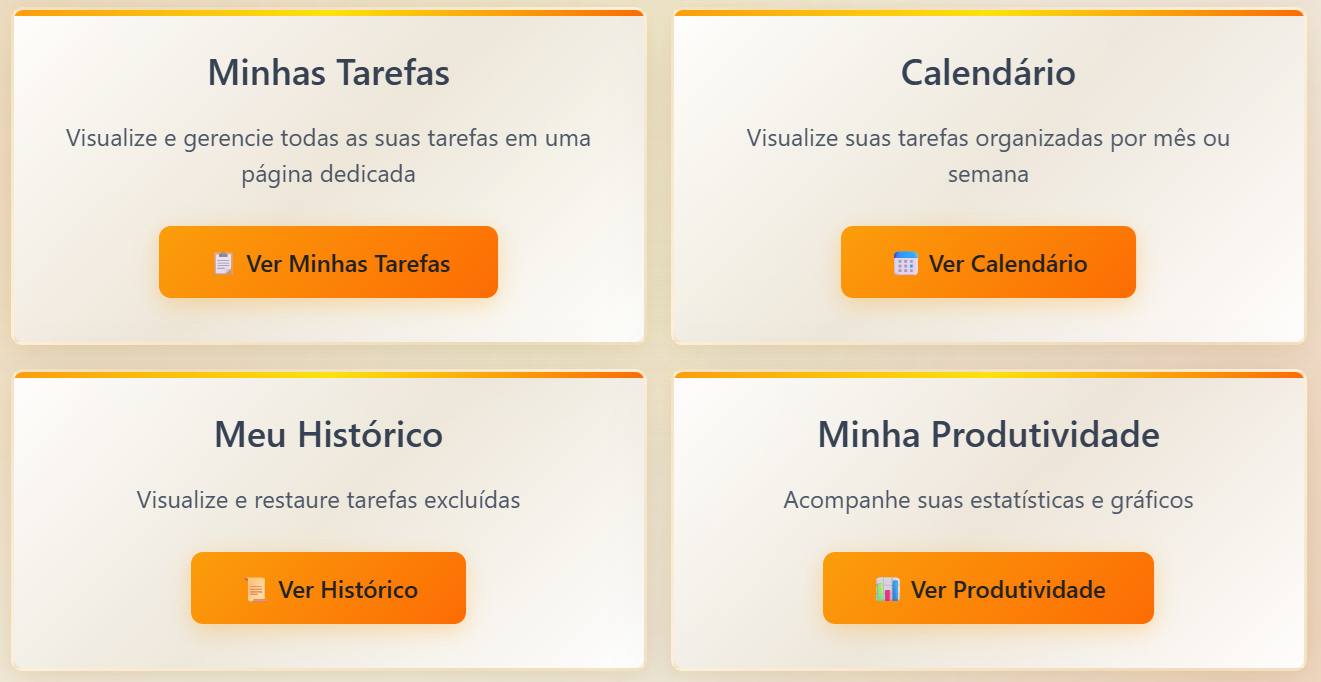
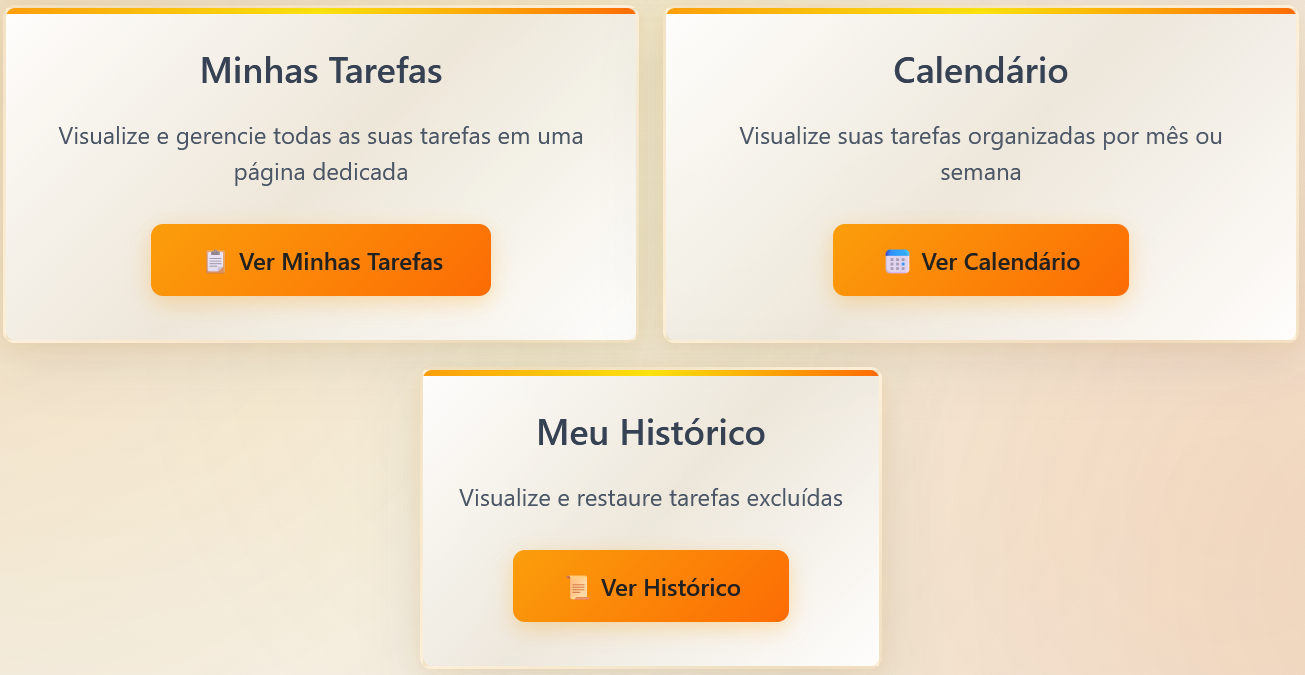
Commit final de quinta

diff --git a/README.md b/README.md
@@ -10,7 +10,24 @@
 
 ## 📋 Sobre o RezenDo
 
-O **RezenDo** é uma aplicação web desenvolvida para ajudar você a organizar e gerenciar suas tarefas de forma eficiente e visualmente atraente. Com uma interface inspirada em post-its coloridos, o aplicativo oferece uma experiência única e agradável para criar, editar e acompanhar suas tarefas. O sistema inclui um calendário completo com visualização mensal e semanal, destaque de feriados, e sistema de notificações automáticas para nunca perder um prazo importante.
+O **RezenDo** é uma aplicação web **totalmente responsiva** desenvolvida para ajudar você a organizar e gerenciar suas tarefas de forma eficiente e visualmente atraente. Com uma interface inspirada em post-its coloridos, o aplicativo oferece uma experiência única e agradável para criar, editar e acompanhar suas tarefas em qualquer dispositivo - seja no desktop, tablet ou smartphone. O sistema inclui um calendário completo com visualização mensal e semanal, destaque de feriados, e sistema de notificações automáticas para nunca perder um prazo importante.
+
+### ⏱ Tempo de Desenvolvimento
+
+O projeto foi desenvolvido em **35 horas e 5 minutos** de trabalho dedicado, utilizando as melhores práticas do ecossistema Laravel e tecnologias modernas de frontend.
+
+## 🎥 Demonstração em Vídeo
+
+<p align="center">
+  <a href="https://youtu.be/5MNWUVqOR-k" target="_blank">
+    <img src="https://img.youtube.com/vi/5MNWUVqOR-k/maxresdefault.jpg" alt="Demonstração do RezenDo" width="600">
+  </a>
+</p>
+
+<p align="center">
+  <strong>Clique na imagem acima para assistir ao vídeo de demonstração do RezenDo</strong><br>
+  <a href="https://youtu.be/5MNWUVqOR-k" target="_blank">🔗 Ver no YouTube</a>
+</p>
 
 ## 🚀 Tecnologias Utilizadas
 
@@ -147,10 +164,13 @@ Se preferir usar Docker:
   - Exclusão em lote de tarefas concluídas
   - Mensagens de erro claras: "Somente o dono da tarefa pode excluí-la" quando não autorizado
 
-- ✅ **Interface Moderna**
+- ✅ **Interface Moderna e Totalmente Responsiva**
   - Design inspirado em post-its com rotação aleatória
   - Cores diferentes para cada nível de prioridade
-  - Layout responsivo para mobile e desktop
+  - **Layout 100% responsivo** - Funciona perfeitamente em desktop, tablet e smartphone
+  - Adaptação automática de elementos visuais para diferentes tamanhos de tela
+  - Menu e navegação otimizados para dispositivos móveis
+  - Formulários e modais adaptáveis a qualquer resolução
   - Animações suaves e transições
   - Notificações toast personalizadas
 
